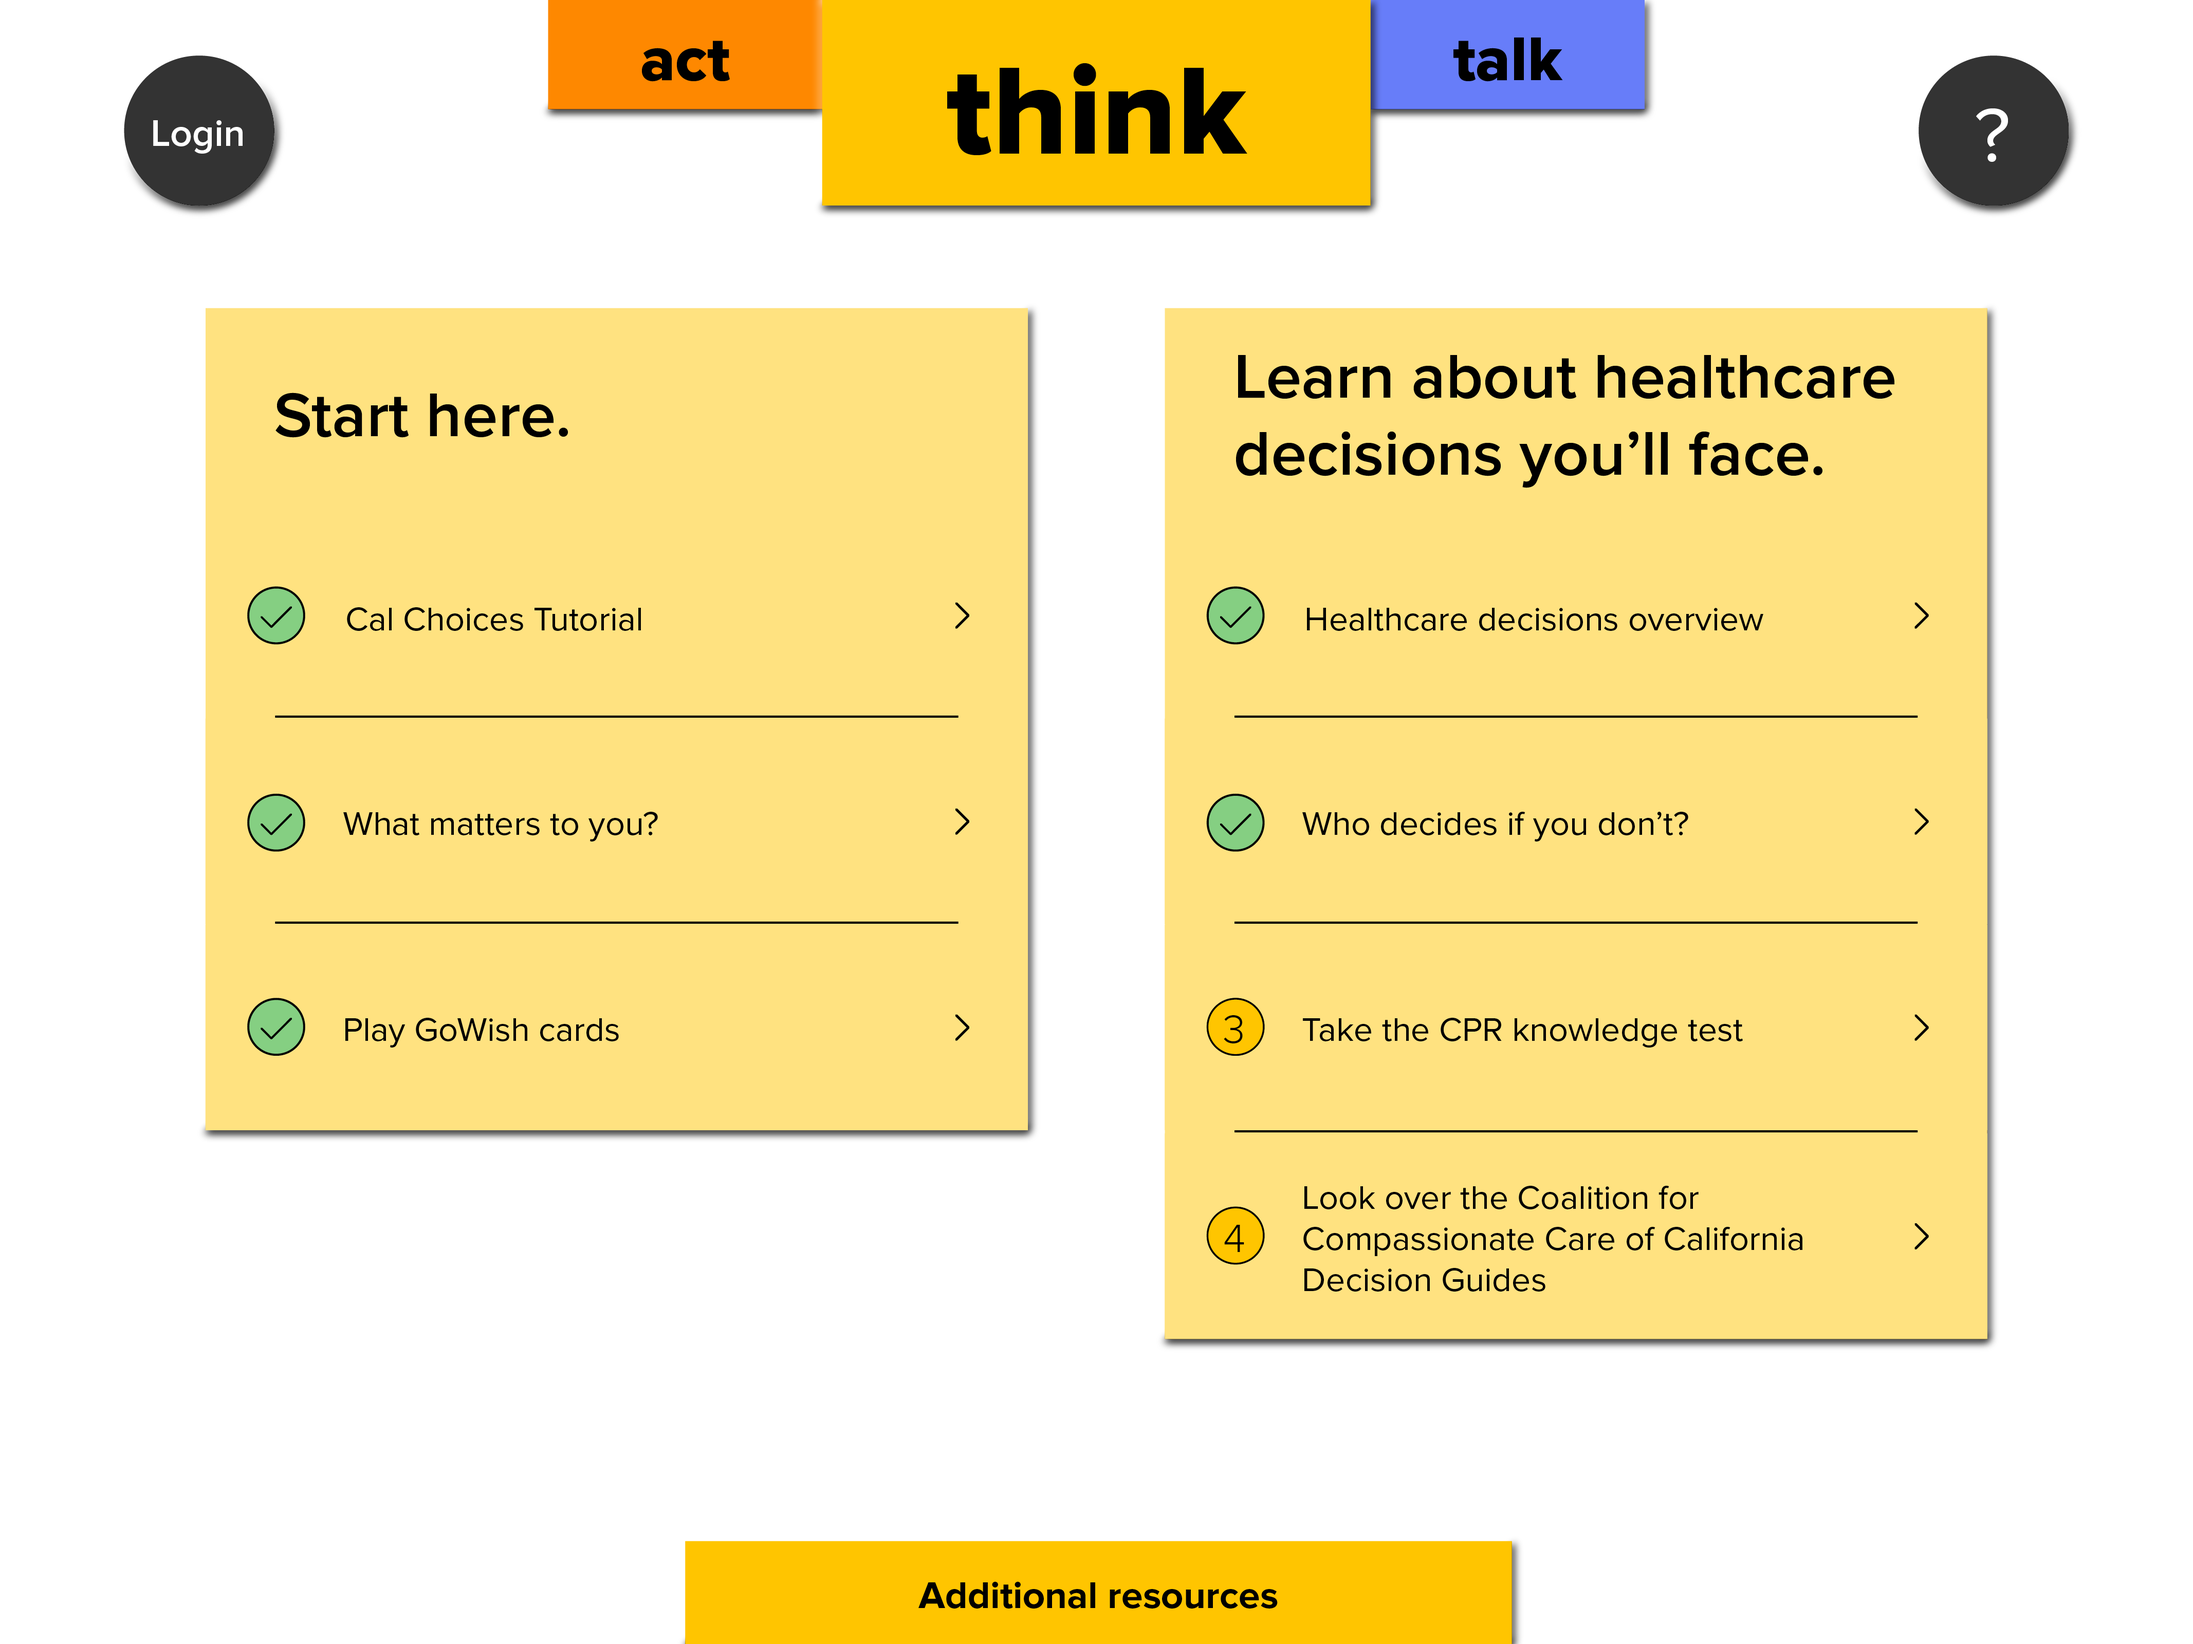
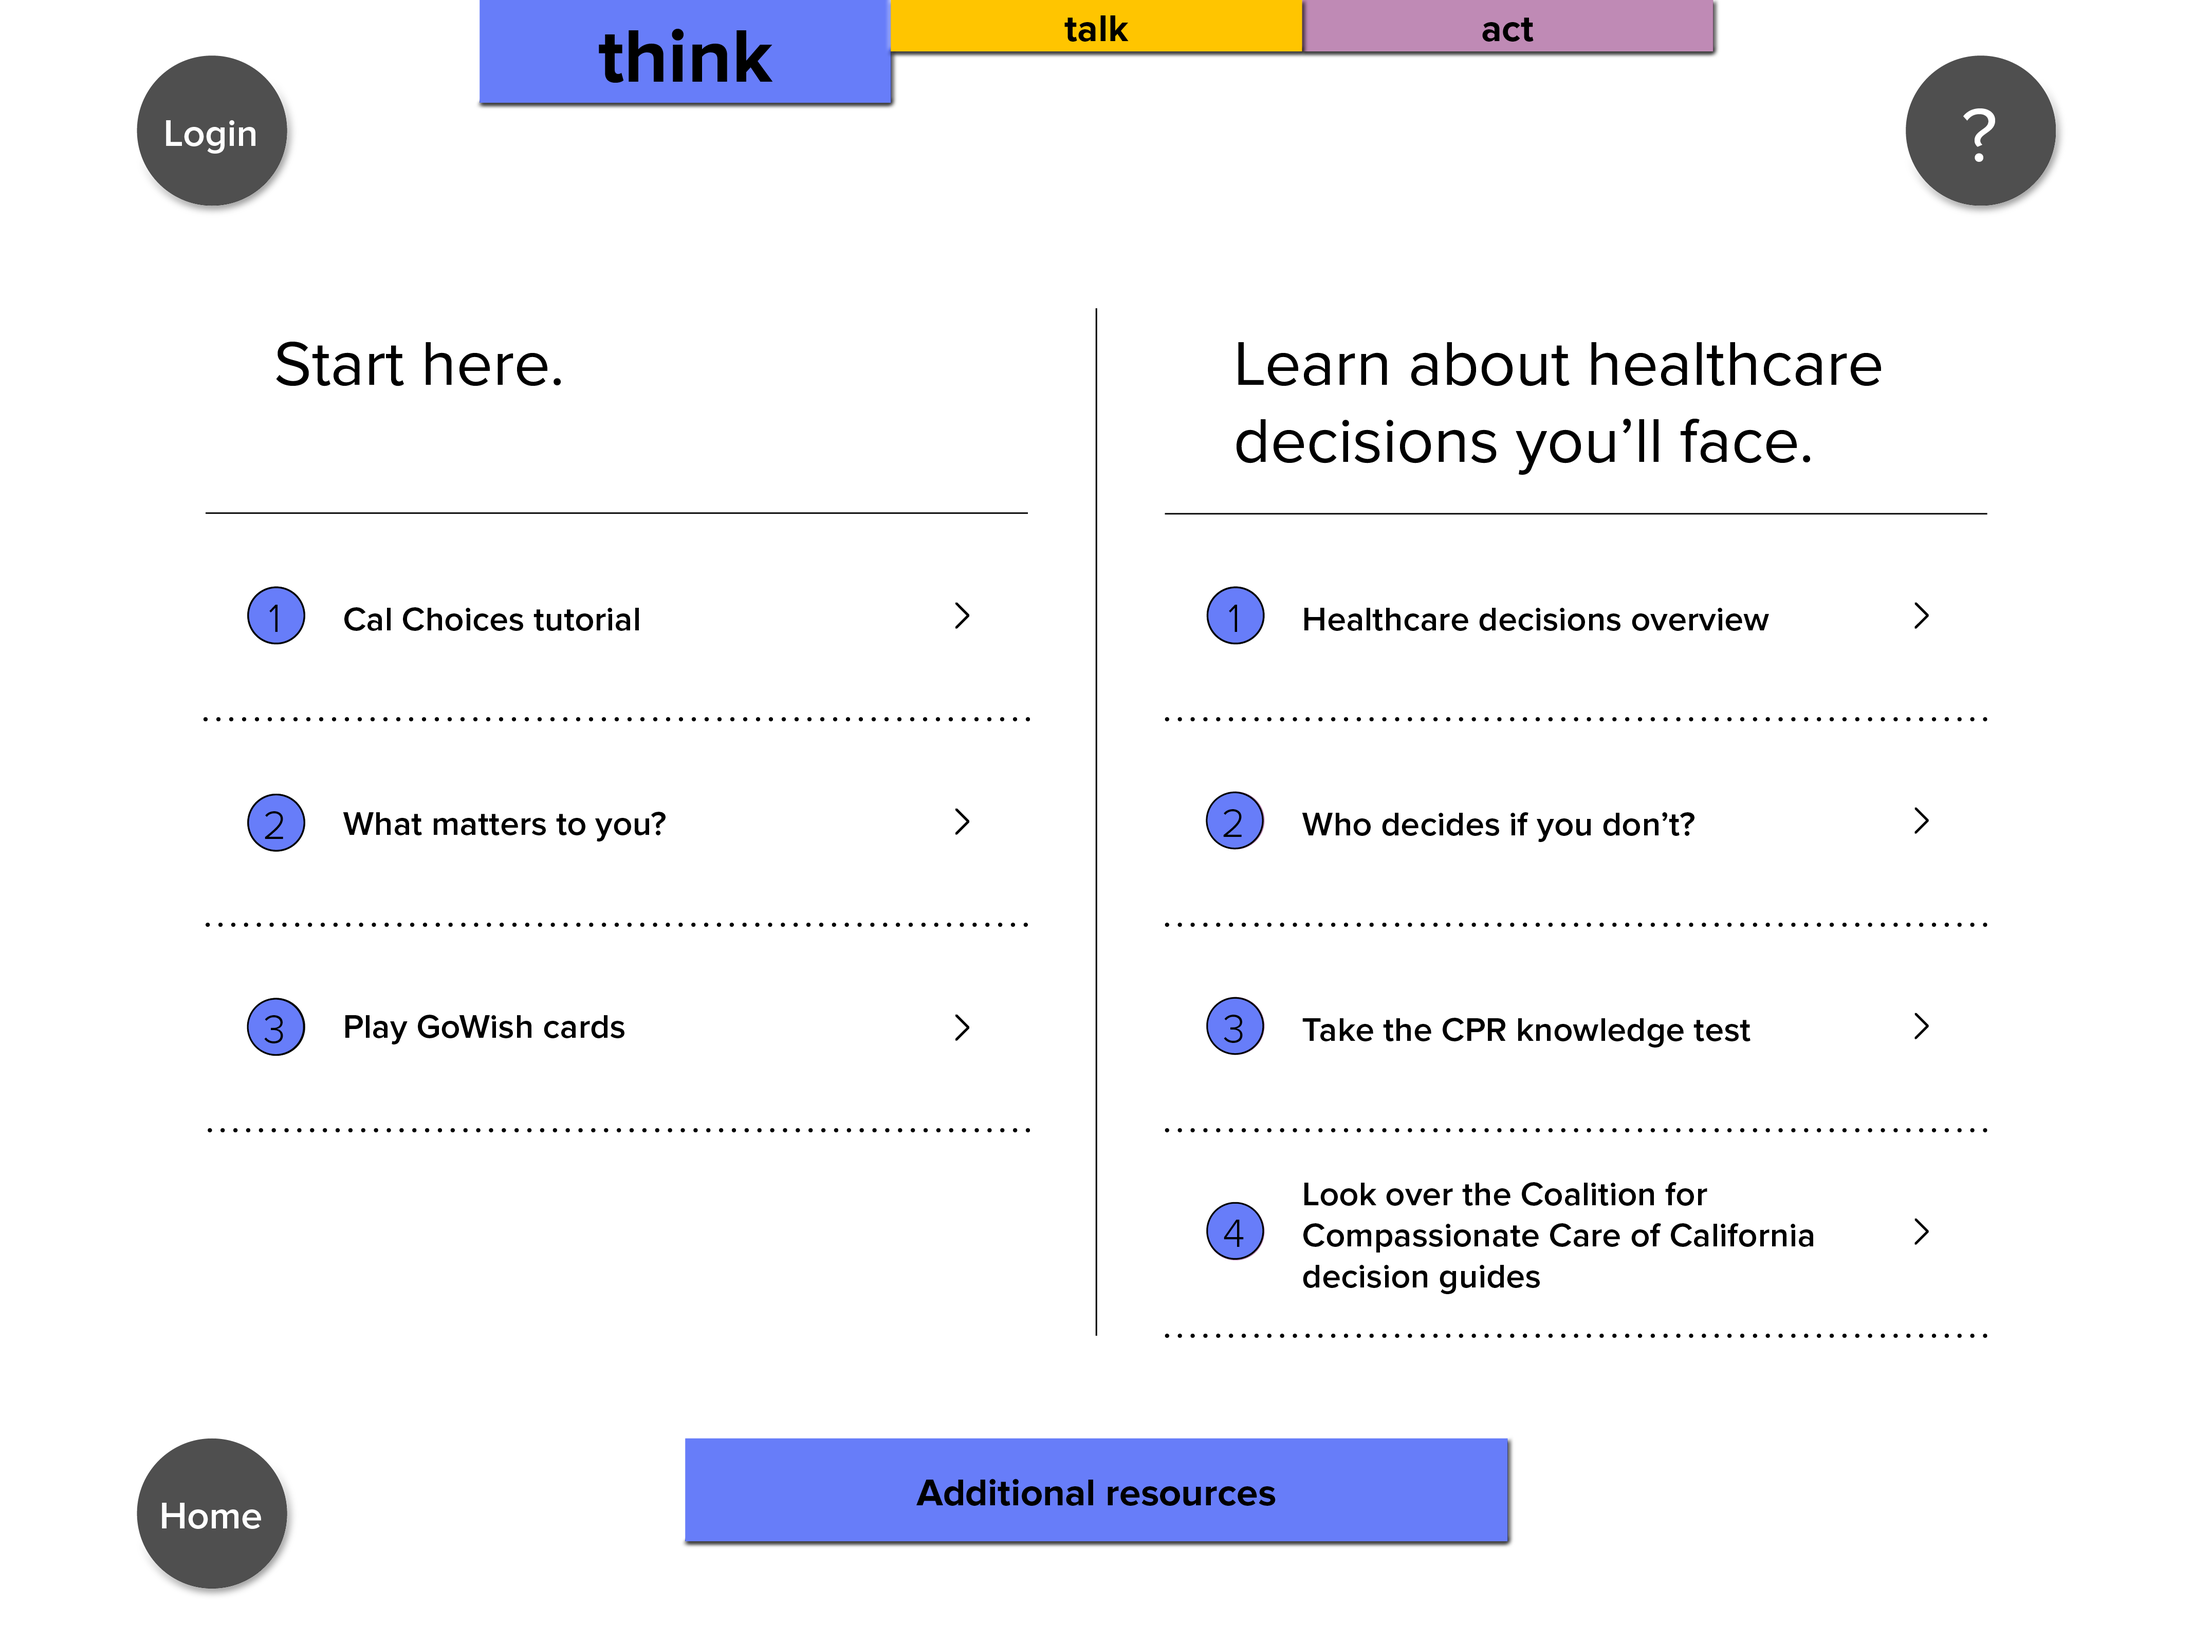
updated design and buttons

diff --git a/ex5.css b/ex5.css
@@ -1,5 +1,4 @@
 body {
-  background-color: #fff2ce;
   text-align: center;
   font-family: 'proxima-nova', sans-serif;
 }
@@ -32,12 +31,14 @@ body img {
   margin-left: auto;
   margin-right: auto;
   top: 96px;
-  background-color: #fff2ce;
+  background-color: white;
+  border: 1px solid #677df9;
   display: none;
 }
 
 h1 {
   font-size: 48px;
+  font-weight: 300;
 }
 
 .closeButton {
@@ -69,6 +70,7 @@ h3 {
   display: none;
   position: absolute;
   top: 350px;
+  width: 700px;
 }
 
 .toolTip {
@@ -80,6 +82,7 @@ h3 {
   position: absolute;
   width: 129px;
   top: 200px;
+  border: 1px solid black;
 }
 
 #trueButton {
@@ -115,8 +118,7 @@ h3 {
 #beginButton {
   width: 318px;
   margin-top: 150px;
-  margin-left: 225px;
-  text-align: center;
+  margin-left: 197px;
 }
 
 #checkMark {
